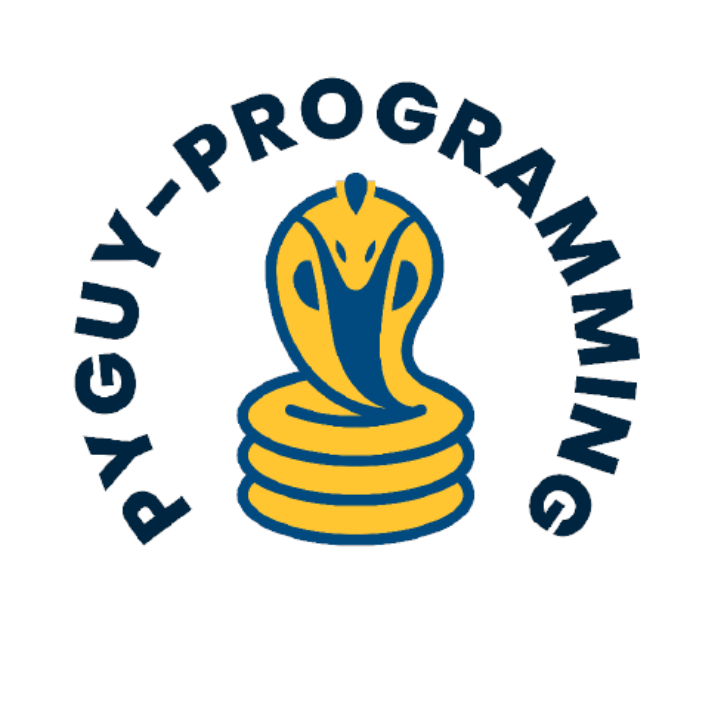
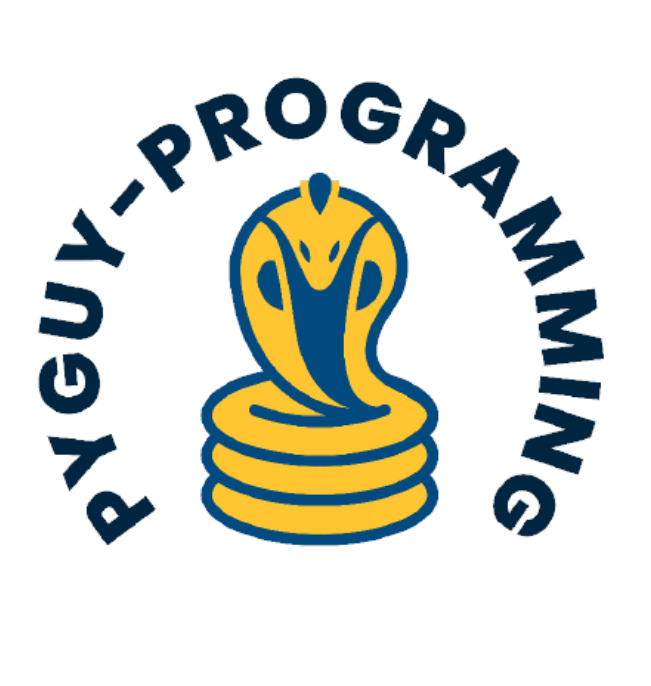
tried to center header text to the images center (on the y axis)

Changed region(s): [[0.0614, 0.0918, 0.9524, 0.7959], [0.3072, 0.2449, 0.6759, 0.7959]]

diff --git a/style.css b/style.css
@@ -22,6 +22,11 @@ header {
 header h1 {
   margin: 0;
   color: #ffffff;
+  a {
+    img {
+      margin-top: 10px;
+    }
+  }
 }
 
 main {
@@ -82,7 +87,7 @@ section {
 }
 
 .py {
-  color: #179f1e;  /* Grün */
+  color: #158c1b;  /* Grün */
 }
 
 .guy {
